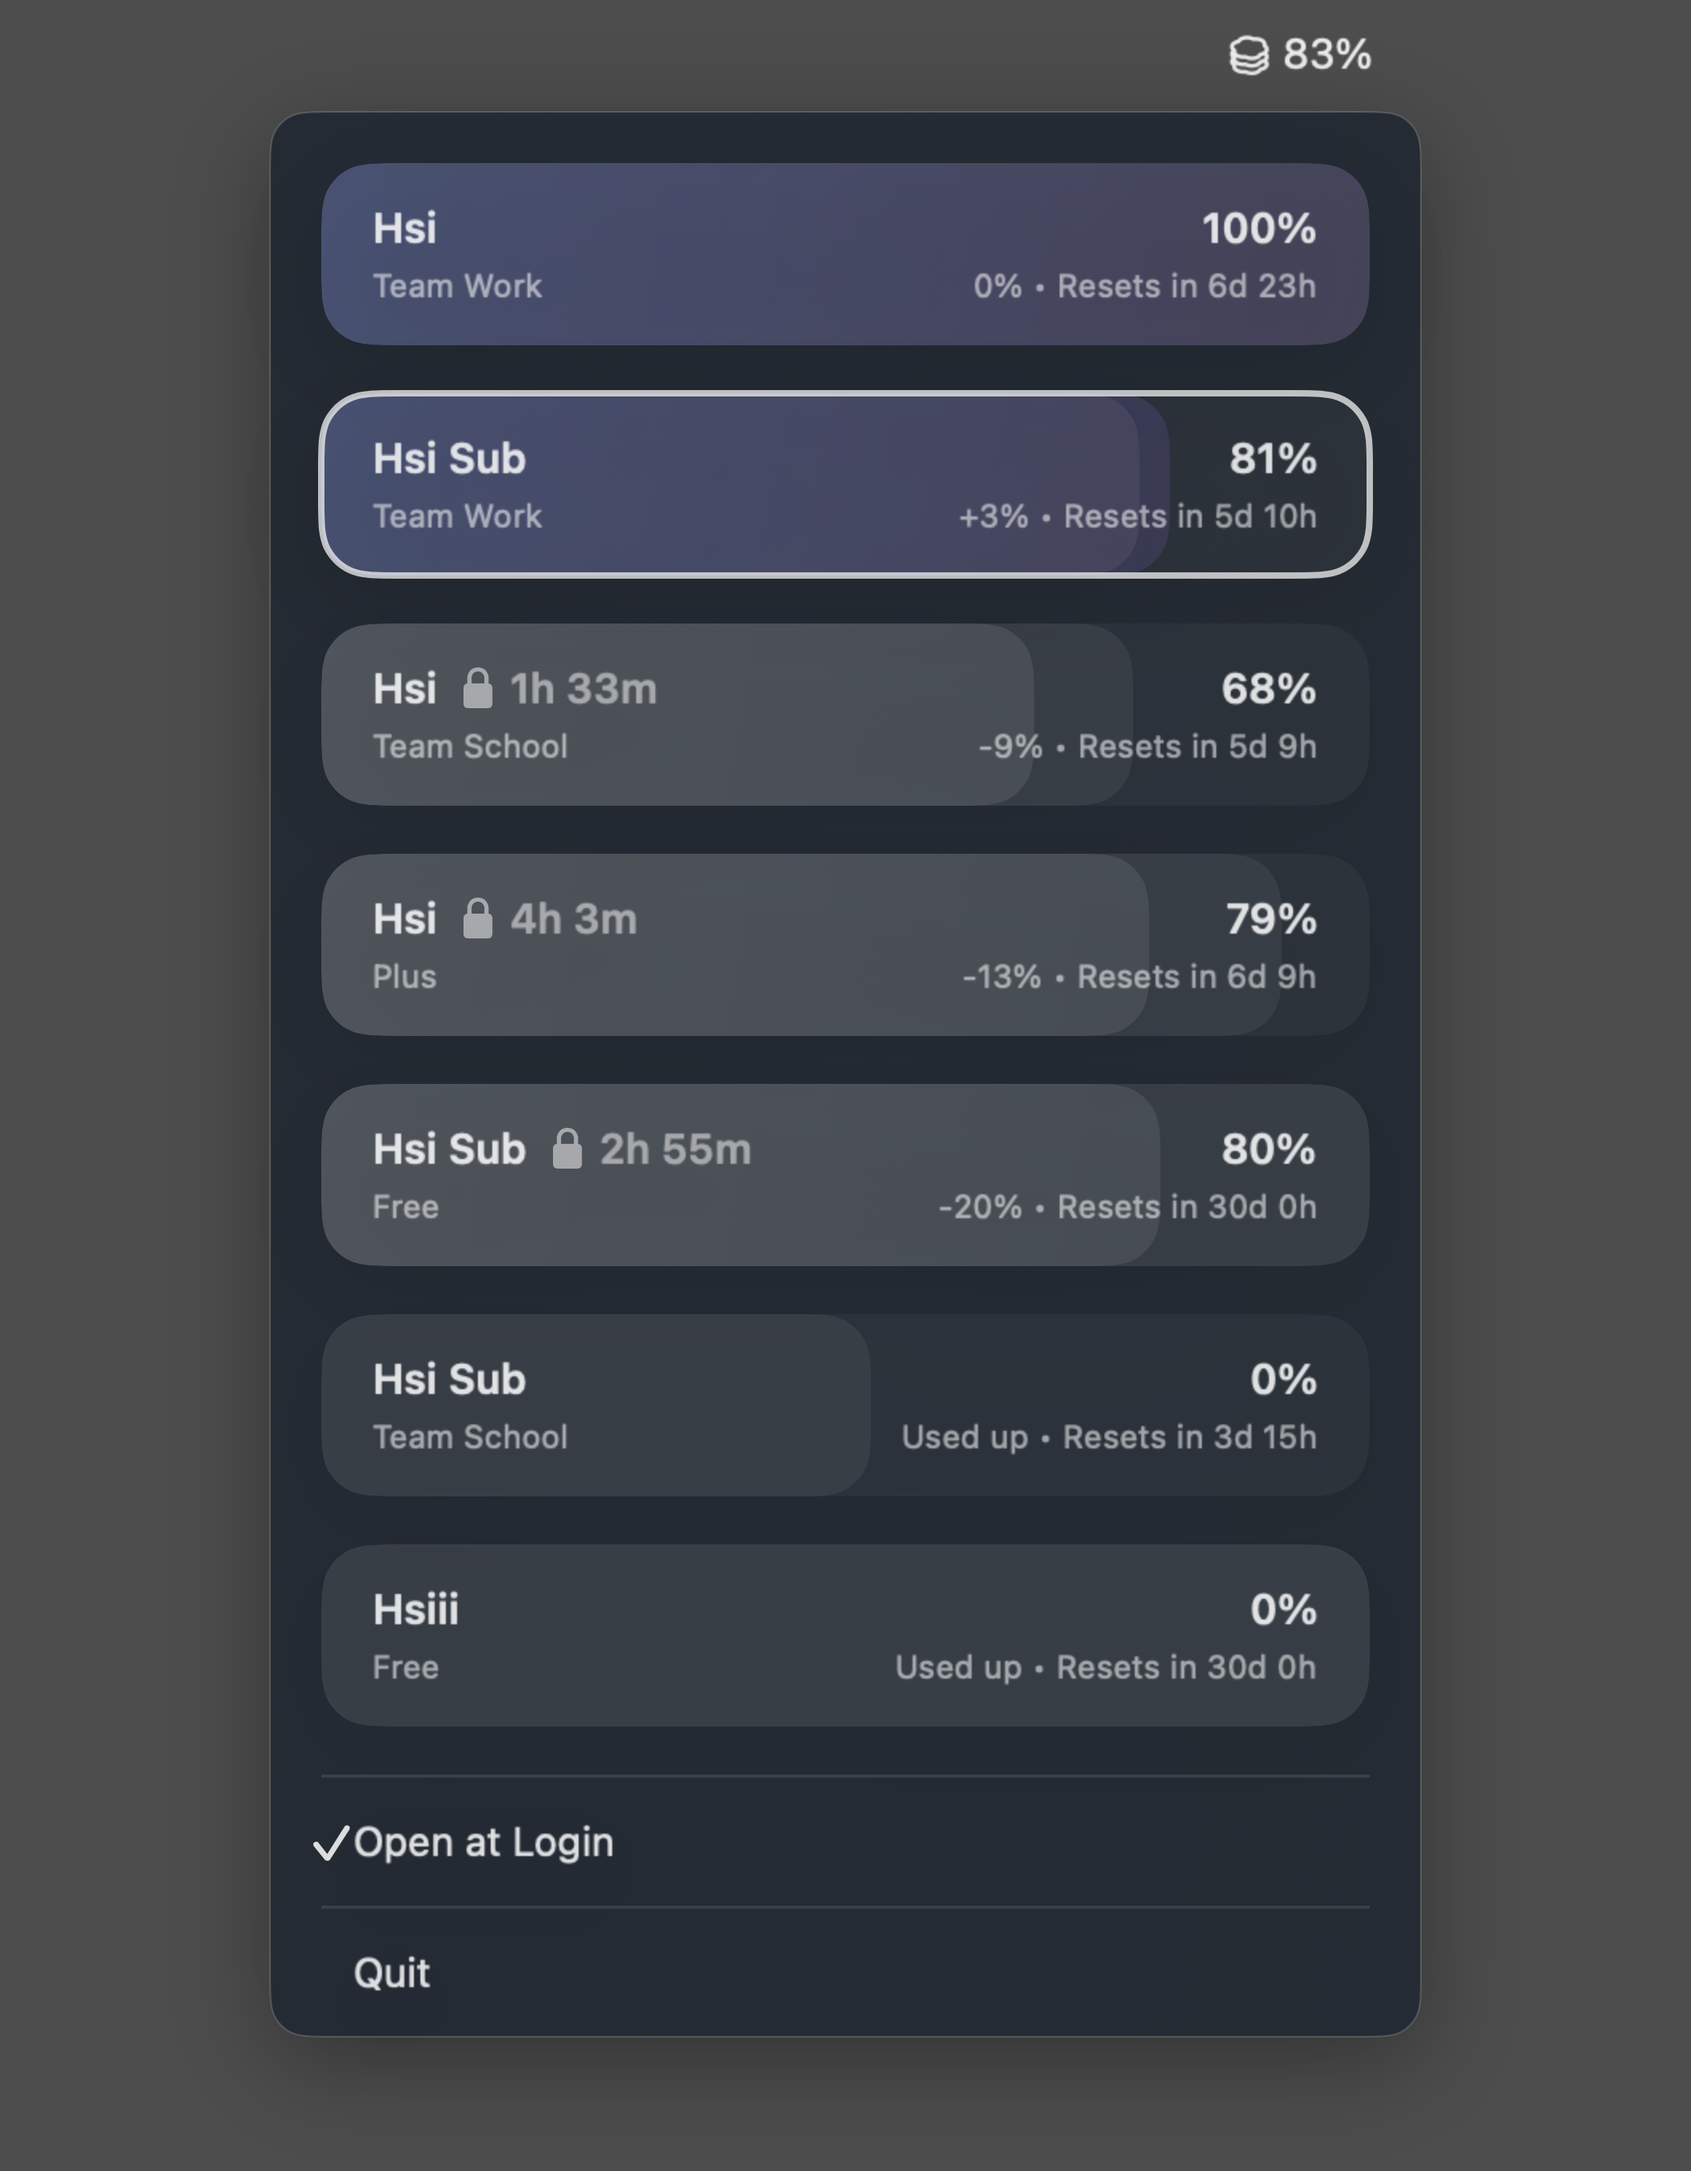
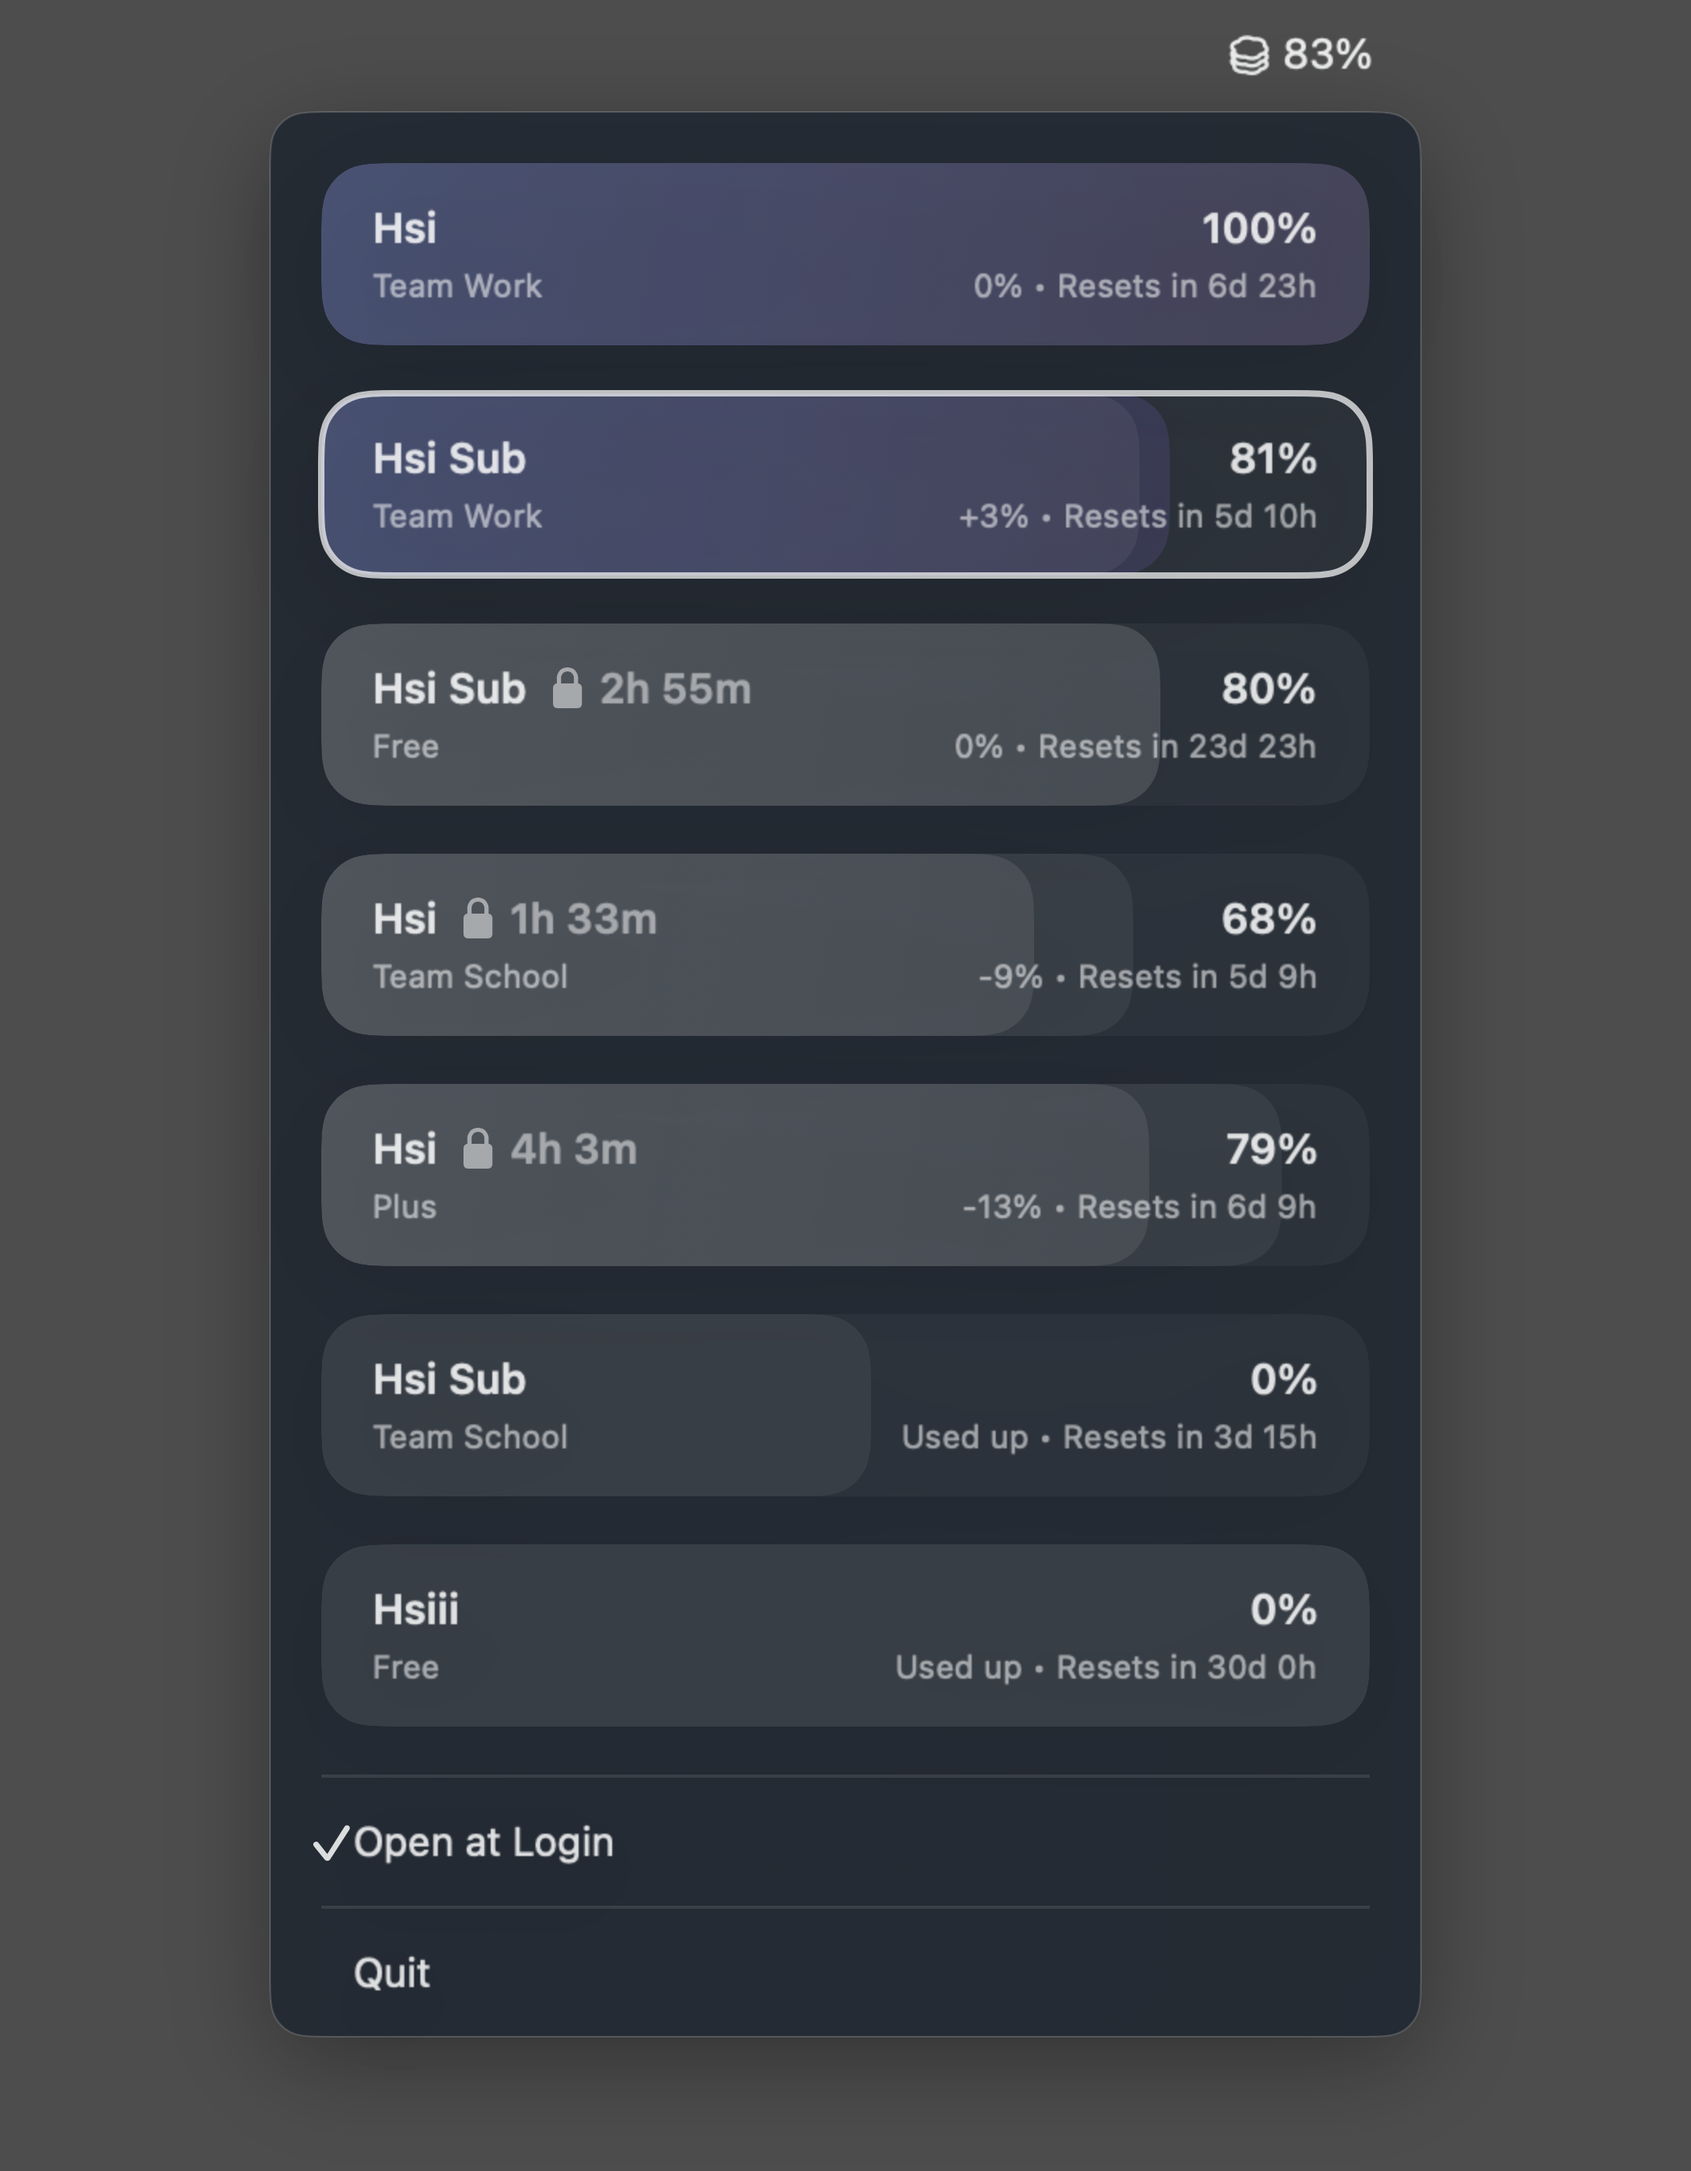
fix: align free tier reset pacing

diff --git a/tools/DemoMockup.swift b/tools/DemoMockup.swift
@@ -14,6 +14,10 @@ private let panelLeading = (canvasSize.width - panelWidth) / 2
 private let panelTopOffset = menuBarHeight
 private let panelCornerRadius: CGFloat = 12
 private let iconPath = "assets/icon.png"
+private let day: TimeInterval = 24 * 60 * 60
+private let hour: TimeInterval = 60 * 60
+private let weeklyWindowDuration: TimeInterval = 7 * day
+private let freeWindowDuration: TimeInterval = 30 * day
 
 @main
 @MainActor
@@ -384,8 +388,9 @@ private func demoAccounts() -> [AccountSnapshot] {
             workspaceLabel: "Personal",
             plan: "Codex Free",
             isCurrent: false,
+            weeklyWindowLabel: "30-day",
             weeklyUsedPercentage: 20,
-            weeklyResetOffset: 30 * 24 * 60 * 60 + 60 * 60,
+            weeklyResetOffset: alignedResetOffset(usedPercentage: 20, duration: freeWindowDuration),
             rollingUsedPercentage: 100,
             rollingResetOffset: 2 * 60 * 60 + 56 * 60,
             now: now
@@ -408,8 +413,9 @@ private func demoAccounts() -> [AccountSnapshot] {
             workspaceLabel: "Personal",
             plan: "Codex Free",
             isCurrent: false,
+            weeklyWindowLabel: "30-day",
             weeklyUsedPercentage: 100,
-            weeklyResetOffset: 30 * 24 * 60 * 60 + 60 * 60,
+            weeklyResetOffset: freeWindowDuration + hour,
             rollingUsedPercentage: 65,
             rollingResetOffset: 2 * 60 * 60,
             now: now
@@ -424,6 +430,7 @@ private func makeAccount(
     plan: String,
     isCurrent: Bool,
     weeklyAvailable: Bool = true,
+    weeklyWindowLabel: String = "weekly",
     weeklyUsedPercentage: Double,
     weeklyResetOffset: TimeInterval,
     rollingAvailable: Bool = true,
@@ -443,9 +450,9 @@ private func makeAccount(
         isCurrentSystemAccount: isCurrent,
         lastSyncedAt: isoString(now),
         weeklyWindow: makeWindow(
-            label: "weekly",
+            label: weeklyWindowLabel,
             available: weeklyAvailable,
-            limitMinutes: 10_080,
+            limitMinutes: Int(round(windowDuration(forLabel: weeklyWindowLabel) / 60)),
             usedPercentage: weeklyUsedPercentage,
             resetOffset: weeklyResetOffset,
             now: now
@@ -459,6 +466,21 @@ private func makeAccount(
             now: now
         )
     )
+}
+
+private func alignedResetOffset(usedPercentage: Double, duration: TimeInterval) -> TimeInterval {
+    let remaining = (100 - clampPercentage(usedPercentage)) / 100
+    return max(hour, duration * remaining)
+}
+
+private func windowDuration(forLabel label: String) -> TimeInterval {
+    let normalized = label.lowercased()
+
+    if normalized.contains("30-day") || normalized.contains("30d") || normalized.contains("monthly") {
+        return freeWindowDuration
+    }
+
+    return weeklyWindowDuration
 }
 
 private func makeWindow(

diff --git a/test/FormatTests.swift b/test/FormatTests.swift
@@ -32,6 +32,22 @@ final class FormatTests: XCTestCase {
         XCTAssertFalse(resetPaceText(for: window).contains("-100%"))
     }
 
+    func testThirtyDayUsageWindowAlignsPaceWithMonthlyReset() {
+        let resetDate = Date().addingTimeInterval(24 * 24 * 60 * 60)
+        let window = UsageWindow(
+            available: true,
+            label: "30-day window",
+            usedMinutes: 8_640,
+            limitMinutes: 43_200,
+            usedPercentage: 20,
+            resetsAt: ISO8601DateFormatter().string(from: resetDate)
+        )
+
+        XCTAssertEqual(displayWindowLabel(for: window), "30d")
+        XCTAssertEqual(percentageText(for: window), "80%")
+        XCTAssertEqual(currentExpectationDelta(for: window), 0)
+    }
+
     func testWeeklyExhaustedAccountHidesRollingLockCountdown() {
         let account = AccountSnapshot(
             accountId: "used-up",

diff --git a/src/Format.swift b/src/Format.swift
@@ -136,6 +136,10 @@ func currentExpectationDelta(for window: UsageWindow) -> Int {
 func displayWindowLabel(for window: UsageWindow) -> String {
     let label = window.label.lowercased()
 
+    if label.contains("30-day") || label.contains("30d") || label.contains("monthly") {
+        return "30d"
+    }
+
     if label.contains("week") {
         return "Weekly"
     }
@@ -239,6 +243,10 @@ func compactAccountTag(for account: AccountSnapshot) -> String? {
 
 func windowDuration(for window: UsageWindow) -> TimeInterval? {
     let label = window.label.lowercased()
+
+    if label.contains("30-day") || label.contains("30d") || label.contains("monthly") {
+        return 30 * 24 * 60 * 60
+    }
 
     if label.contains("week") {
         return 7 * 24 * 60 * 60
